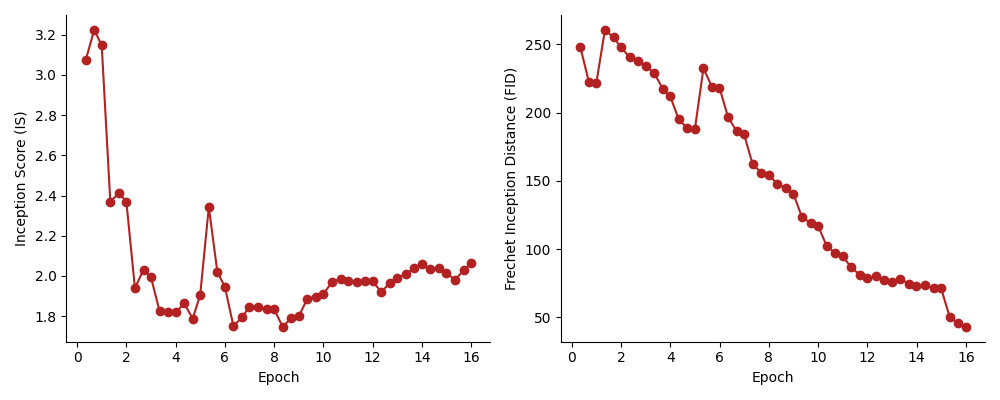
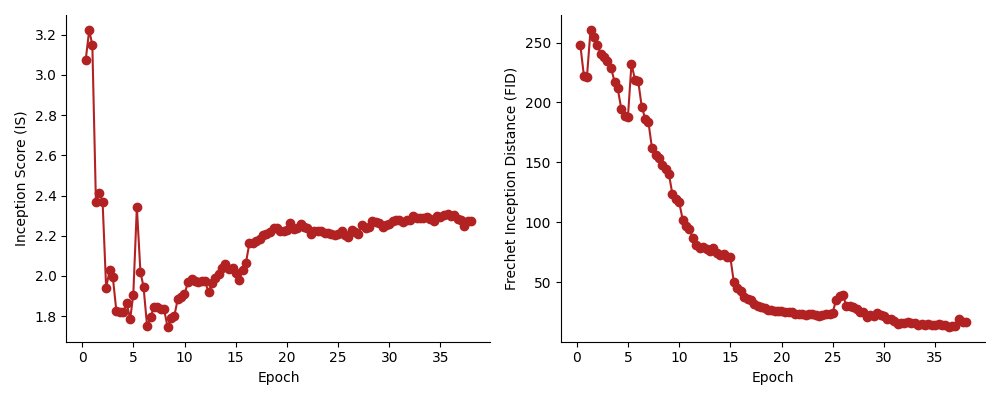
still waiting for full run

diff --git a/README.md b/README.md
@@ -14,7 +14,8 @@ Chen Liu (chen.liu.cl2482@yale.edu), Alex Wong (alex.wong@yale.edu)
 The script can be found in [`src/train_dcgan_svhn.py`](https://github.com/ChenLiu-1996/GAN-IS-FID-evaluator/blob/main/src/train_dcgan_svhn.py)
 
 1. Real (top) and Generated (bottom) images after 50 epochs of training.
-<img src = "debug_plot/dcgan_svhn/epoch_0049_batch_0286_generated.png" width=800>
+<!-- <img src = "debug_plot/dcgan_svhn/epoch_0049_batch_0286_generated.png" width=800> -->
+<img src = "debug_plot/dcgan_svhn/epoch_0038_batch_0099_generated.png" width=800>
 
 2. IS and FID curves.
 <img src = "debug_plot/dcgan_svhn/IS_FID_curve.png" width=800>
